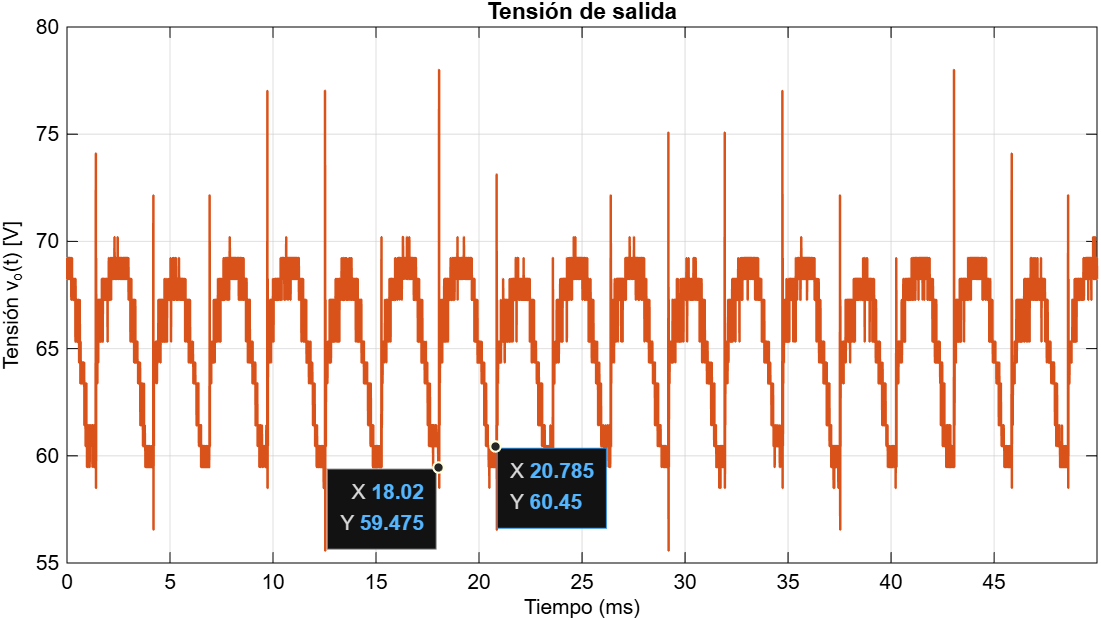
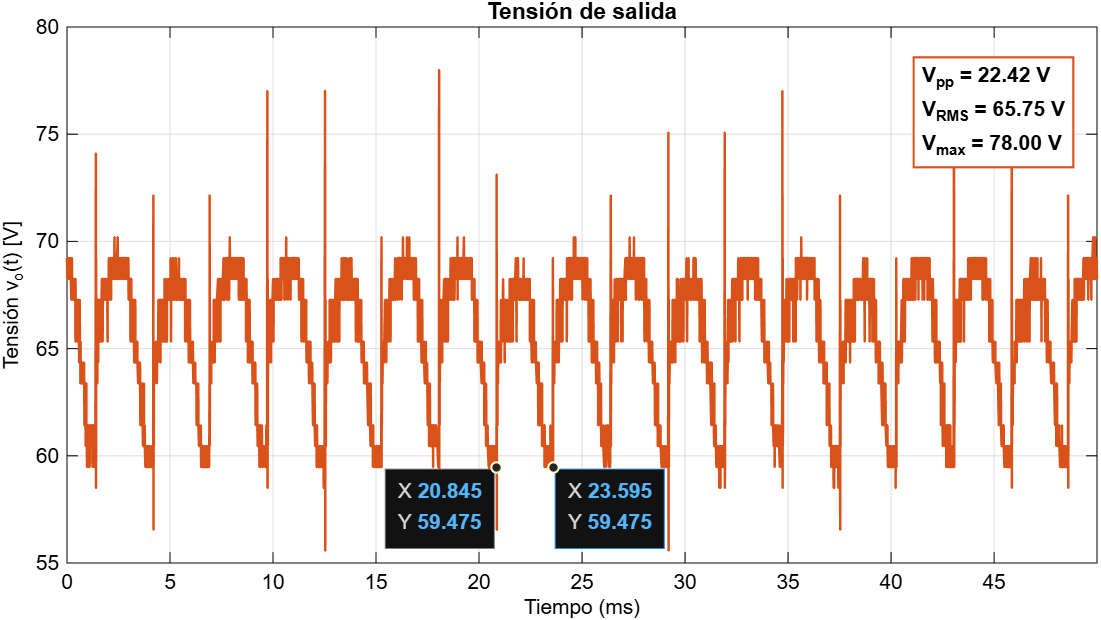
img

Changed region(s): [[0.2779, 0.7048, 0.6176, 0.8887], [0.8338, 0.0919, 0.9882, 0.2758]]

diff --git a/Graficas/Grafica tensiones/script_graficas/Graficas_Tension.m b/Graficas/Grafica tensiones/script_graficas/Graficas_Tension.m
@@ -1,7 +1,7 @@
 clearvars; clc; close all;
 
 % --- 1. ARCHIVOS CSV Y NOMBRES DE VENTANA / TÍTULOS ---
-archivos        = {'Vin_60V.csv', 'Vout_60V.csv'}; 
+archivos        = {'VLL_30V.csv', 'Vout_30V.csv'}; 
 nombres_pestana = {'Tensión de línea', 'Tensión de salida'};
 ejes_y          = {'Tensión v_{in}(t) [V]', 'Tensión v_o(t) [V]'};
 colores         = {[0 0.45 0.74], [0.85 0.32 0.1]}; % Azul y rojo profesionales
@@ -9,26 +9,26 @@ colores         = {[0 0.45 0.74], [0.85 0.32 0.1]}; % Azul y rojo profesionales
 % --- 2. BUCLE DE LECTURA DIRECTA Y GRAFICADO LIMPIO ---
 for k = 1:length(archivos)
     nombre_archivo = archivos{k};
+    
 
-    % Cargar datos omitiendo las 25 filas de metadatos del osciloscopio
     try
         opts = detectImportOptions(nombre_archivo, 'NumHeaderLines', 25);
         datos = readmatrix(nombre_archivo, opts);
     catch
         datos = readmatrix(nombre_archivo);
     end
+    
 
-    % Extracción de vectores de tiempo (en ms iniciando en 0) y voltaje (en V)
     t = (datos(:,1) - datos(1,1)) * 1e3;   
     v = datos(:,2);                         
-
+    
     % --- CÁLCULO DE PARÁMETROS DIRECTAMENTE DEL CSV ---
     v_rms   = sqrt(mean(v.^2));
     v_media = mean(v);
     v_max   = max(v);
     v_min   = min(v);
     v_pp    = v_max - v_min;
-
+    
     % Imprimir resultados limpios en la Command Window
     fprintf('=================================================\n');
     fprintf('  ARCHIVO: %s\n', nombre_archivo);
@@ -38,19 +38,17 @@ for k = 1:length(archivos)
     fprintf('  V_pp    : %.2f V\n', v_pp);
     fprintf('  V_max   : %.2f V\n', v_max);
     fprintf('  V_min   : %.2f V\n\n', v_min);
-
-    % --- FIGURA Y GRÁFICA LIMPIA (MODO CLARO) ---
+    
+    % --- FIGURA Y GRÁFICA LIMPIA  ---
     figure('Name', nombres_pestana{k}, 'NumberTitle', 'off', 'Color', 'w', 'Position', [100+40*k 100+40*k 850 420]);
-
     plot(t, v, 'Color', colores{k}, 'LineWidth', 1.2);
     grid on;
-
+    
     % Etiquetas y títulos
     xlabel('Tiempo (ms)', 'Color', 'k', 'FontSize', 10);
     ylabel(ejes_y{k}, 'Color', 'k', 'FontSize', 10);
     title(nombres_pestana{k}, 'Color', 'k', 'FontSize', 11, 'FontWeight', 'bold');
-
-
+    
     % Estilo visual de ejes
     ax = gca;
     ax.Color     = 'w';
@@ -58,6 +56,21 @@ for k = 1:length(archivos)
     ax.YColor    = 'k';
     ax.GridColor = [0.8 0.8 0.8];
     ax.GridAlpha = 0.6;
-
     xlim([0 t(end)]);
+    
+  
+    str_info = {sprintf('V_{pp} = %.2f V', v_pp), ...
+                sprintf('V_{RMS} = %.2f V', v_rms), ...
+                sprintf('V_{max} = %.2f V', v_max)};
+            
+    text(0.97, 0.93, str_info, ...
+        'Units', 'normalized', ...
+        'HorizontalAlignment', 'right', ...
+        'VerticalAlignment', 'top', ...
+        'FontSize', 10, ...
+        'FontWeight', 'bold', ...
+        'Color', 'k', ...                  
+        'BackgroundColor', [1 1 1], ...    
+        'EdgeColor', colores{k}, ...
+        'LineWidth', 1);
 end
